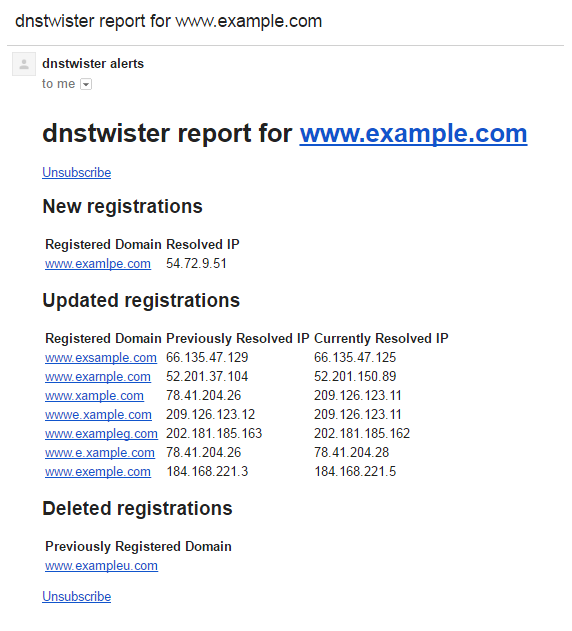
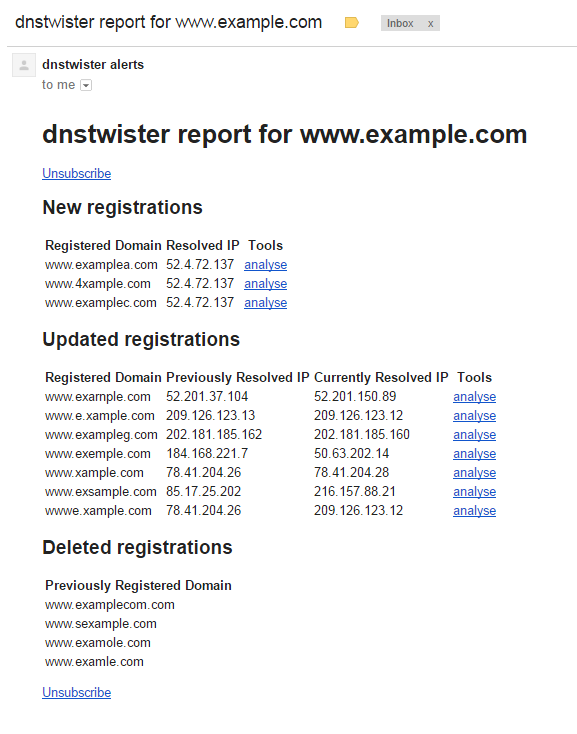
Updated email example and fixed incorrect error logging

Changed region(s): [[0.0297, 0.0, 0.9213, 0.9635], [0.6538, 0.0, 0.7727, 0.0602], [0.5944, 0.0, 0.6241, 0.0602]]

diff --git a/dnstwister/views/www/email.py b/dnstwister/views/www/email.py
@@ -22,9 +22,10 @@ def email_subscribe_get_email(hexdomain, error=None):
     # Attempt to parse out a validation error.
     error_str = None
     try:
-        error_idx = int(error)
-        assert error_idx >= 0
-        error_str = ERRORS[error_idx]
+        if error is not None:
+            error_idx = int(error)
+            assert error_idx >= 0
+            error_str = ERRORS[error_idx]
     except:
         app.logger.info(
             'Invalid error index {}'.format(error)
